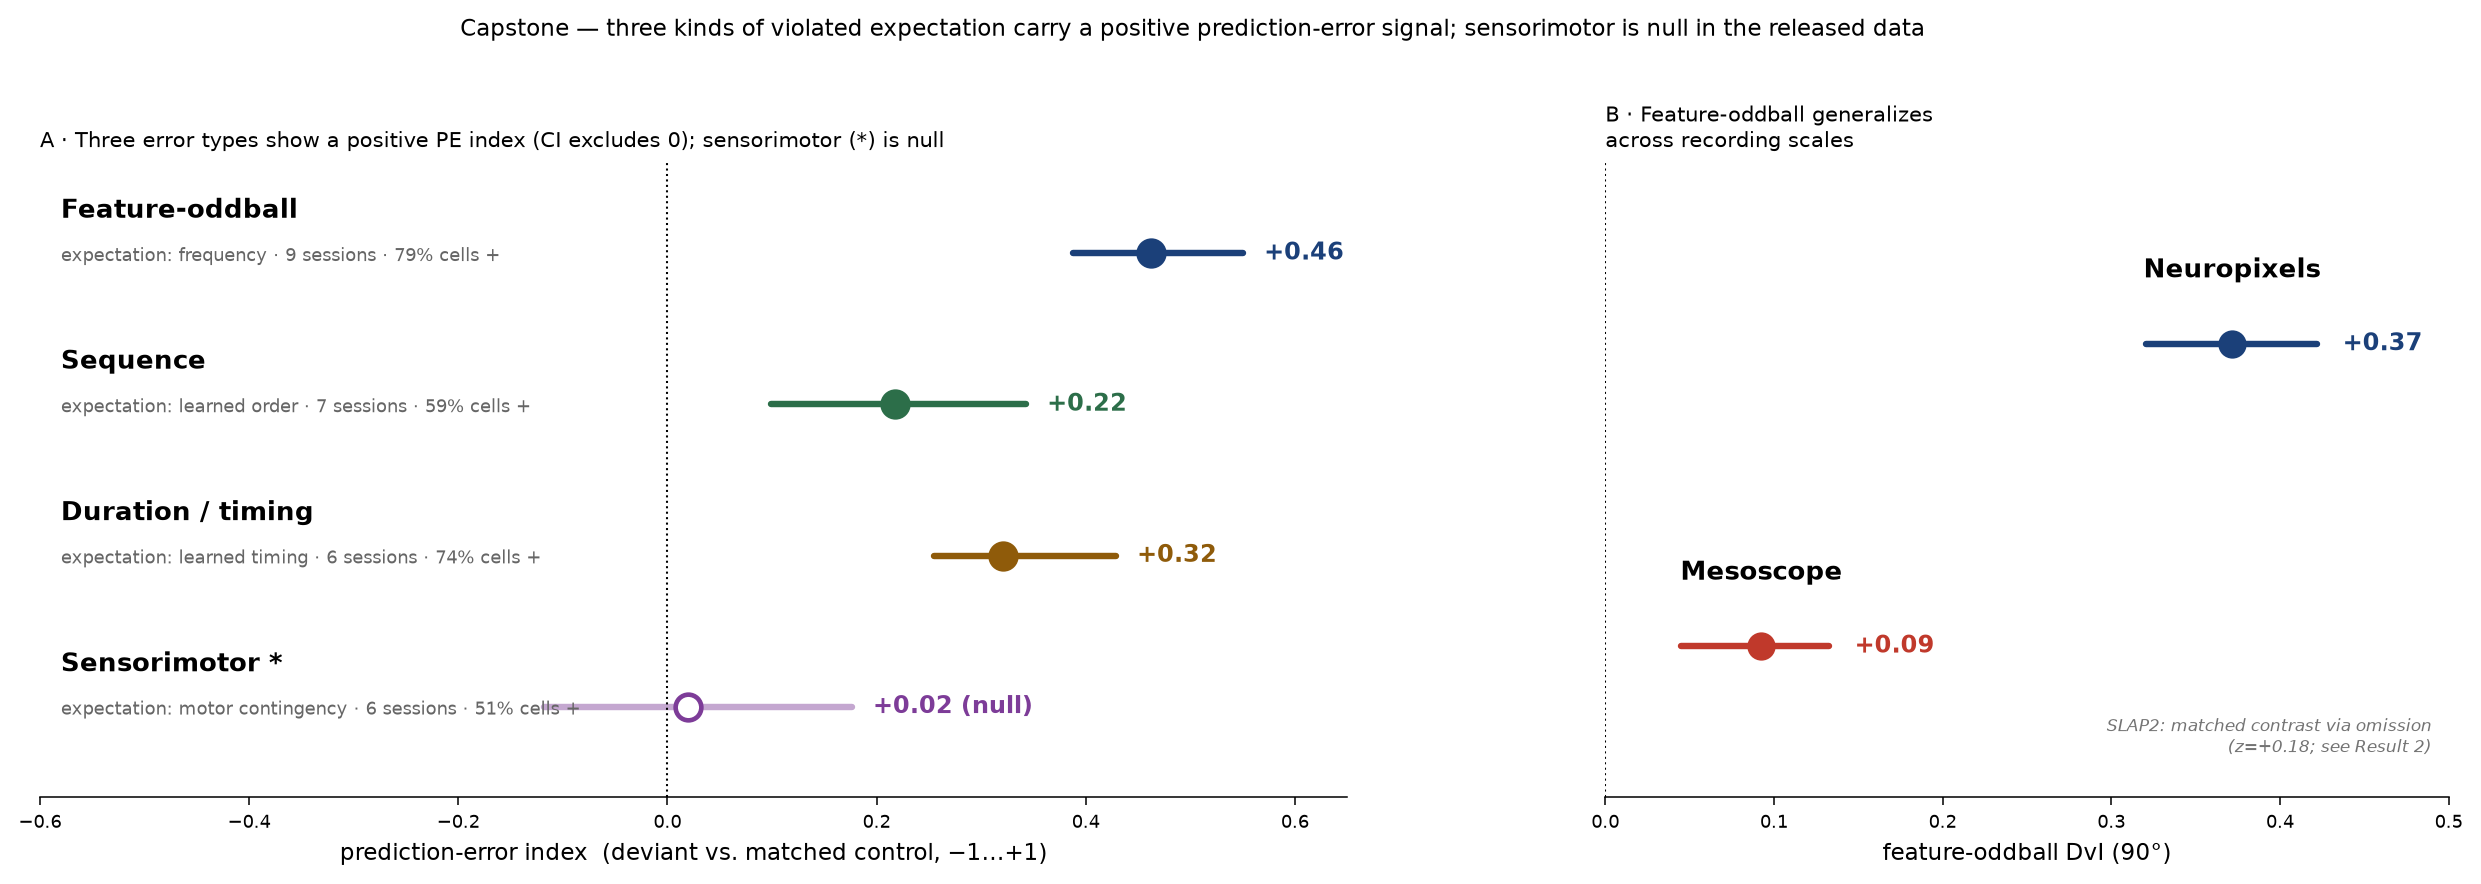
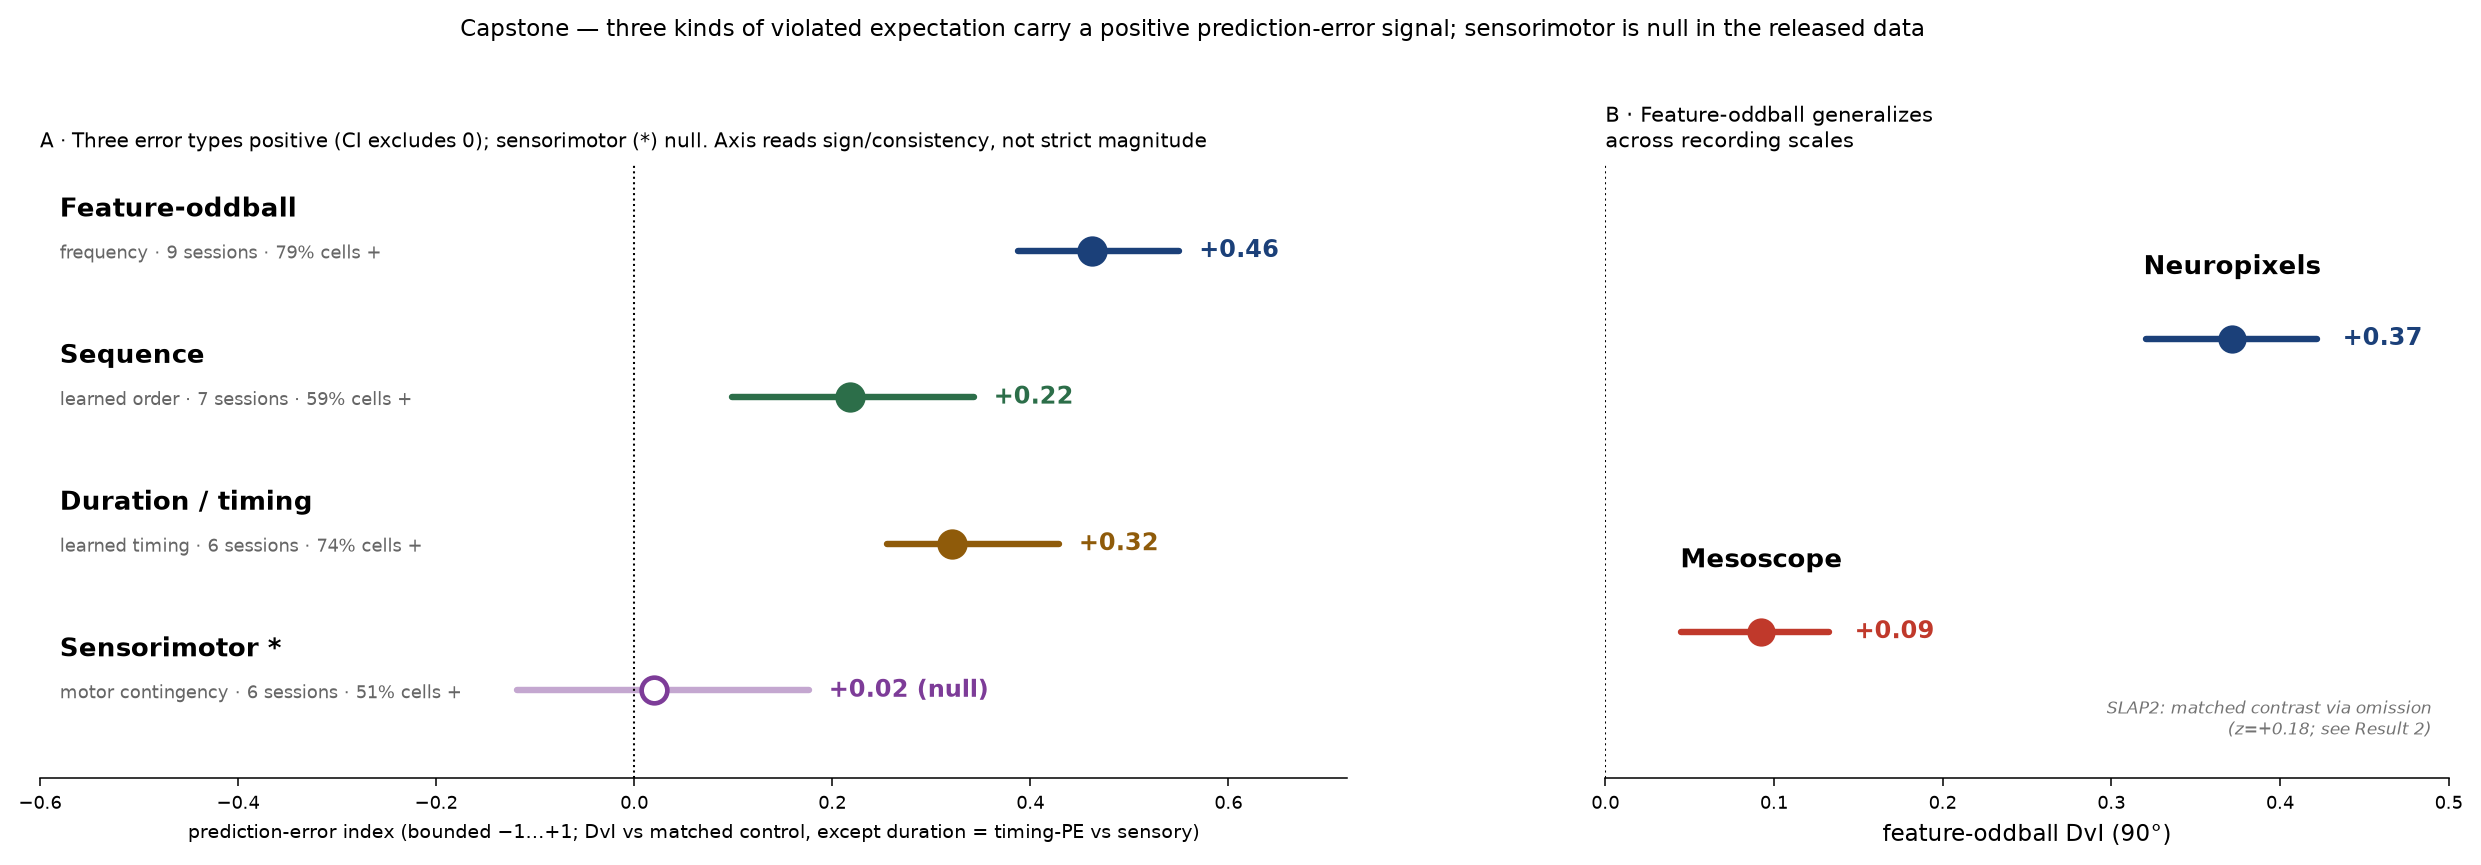
Capstone: make the mixed index construction explicit (duration is timing-PE, not a matched-control DvI)
Critique verification: the literal claim (duration value is raw Hz, unbounded) is FALSE — the
committed capstone duration value is +0.321, which is exactly the bounded index
om_pe/(|om_pe|+|std_r|) (raw Hz would be +0.969), and the CSV already labels it 'timing-PE index'.
But the critique's underlying point is fair: the caption called all four rows a 'deviant response
relative to a physically-matched control', which is only true for 3 of 4 — the duration row is the
omission response at the expected time (no stimulus -> no physically-matched control possible)
normalized by the sensory response. Both are bounded -1..+1 but are not the identical construction.

Fixed: caption now states the two constructions explicitly and says the axis reads
SIGN/CONSISTENCY across error types, not a strict magnitude ranking; figure x-axis label and
panel-A title updated; a note added to capstone_synthesis.ipynb. No value changes — all four rows
were already bounded indices; only the comparability framing is corrected.

diff --git a/README.md b/README.md
@@ -50,12 +50,19 @@ reading (H1), with the motor case still open pending better-powered data.
 
 The project's four error-type prediction-error contrasts, on one axis (the eight
 numbered Results below expand these plus the cross-scale and anatomical analyses).
-Each row of panel A is a
-different way of making a stimulus *unexpected*; the index is the deviant response
-relative to a physically-matched control (bounded −1…+1, so techniques and
-paradigms are comparable). All four are positive with confidence intervals
-excluding zero — the deviance signal does not depend on *how* the expectation was
-set:
+Each row of panel A is a different way of making a stimulus *unexpected*, expressed
+as a bounded −1…+1 index so the four can share an axis. **The rows are not the
+identical construction, and the axis compares direction, not magnitude.** Three rows
+(feature-oddball, sequence, sensorimotor) are DvIs — the deviant response relative to
+a **physically-matched control stimulus**, (R_dev−R_ctrl)/(|R_dev|+|R_ctrl|). The
+duration row is a **timing-PE index** — the omission response at the expected onset
+time (there is *no* stimulus, so no physically-matched control is possible) normalized
+by the standard sensory response, om/(|om|+|std|). Both are bounded to −1…+1 and both
+put a surprise-related response over a response-magnitude denominator, but a duration
++0.32 and a feature-oddball +0.45 are not strictly the same quantity — so read the
+panel as **"which error types produce a positively-signed PE and how consistently,"**
+not as a strength ranking. On that reading, three of four are positive with CIs
+excluding zero (sensorimotor is null):
 
 | error type | expectation set by | PE index | 95 % CI (hierarchical) | sessions | cells + |
 |---|---|---|---|---|---|
